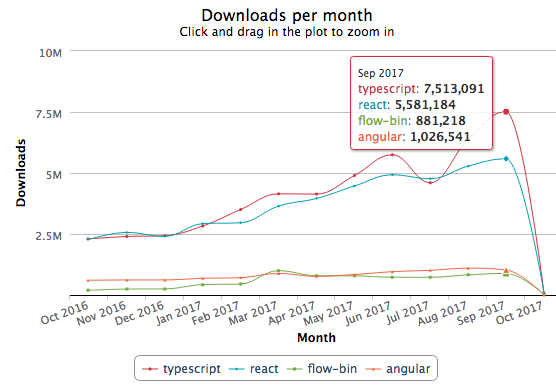
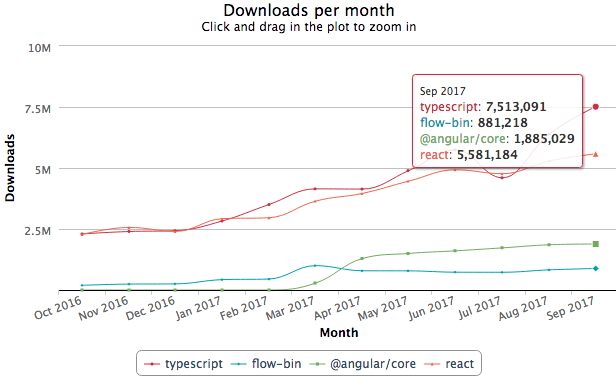
moved ordering

diff --git a/presentation/index.js b/presentation/index.js
@@ -94,13 +94,13 @@ export default class Presentation extends React.Component {
               <ListItem>ES6/ES2015</ListItem>
             </Appear>
             <Appear>
-              <ListItem>React</ListItem>
-            </Appear>
-            <Appear>
               <ListItem>Webpack</ListItem>
             </Appear>
             <Appear>
               <ListItem>Typescript</ListItem>
+            </Appear>
+            <Appear>
+              <ListItem>React</ListItem>
             </Appear>
           </List>
         </Slide>
@@ -267,13 +267,15 @@ export default class Presentation extends React.Component {
           </List>
         </Slide>
         <Slide transition={["fade"]}>
-          <Heading caps>Typescript - Usage(NPM downloads)</Heading>
+          <Heading caps style={{ fontSize: "2em" }}>
+            Typescript - Usage(NPM downloads)
+          </Heading>
           <Image src={images.npmDownloads} />
           <Link
-            href="https://npm-stat.com/charts.html?package=babel&package=typescript&package=flow-bin&from=2016-10-01&to=2017-03-31"
+            href="https://npm-stat.com/charts.html?package=typescript&package=flow-bin&package=angular&package=react&from=2016-10-01&to=2017-09-30"
             target="blank"
           >
-            <span style={{ fontSize: 12 }}>*Source</span>
+            <div style={{ fontSize: 12 }}>*Source</div>
           </Link>
         </Slide>
         <CodeSlide
@@ -291,6 +293,11 @@ export default class Presentation extends React.Component {
             { loc: [3, 5], title: "Start the project" }
           ]}
         />
+        <Slide transition={["zoom"]} bgColor="primary" key="andbeyond">
+          <Heading size={1} fit caps lineHeight={1} textColor="secondary">
+            Project Demo
+          </Heading>
+        </Slide>
         <CodeSlide
           key="classvsfunction"
           transition={[]}
